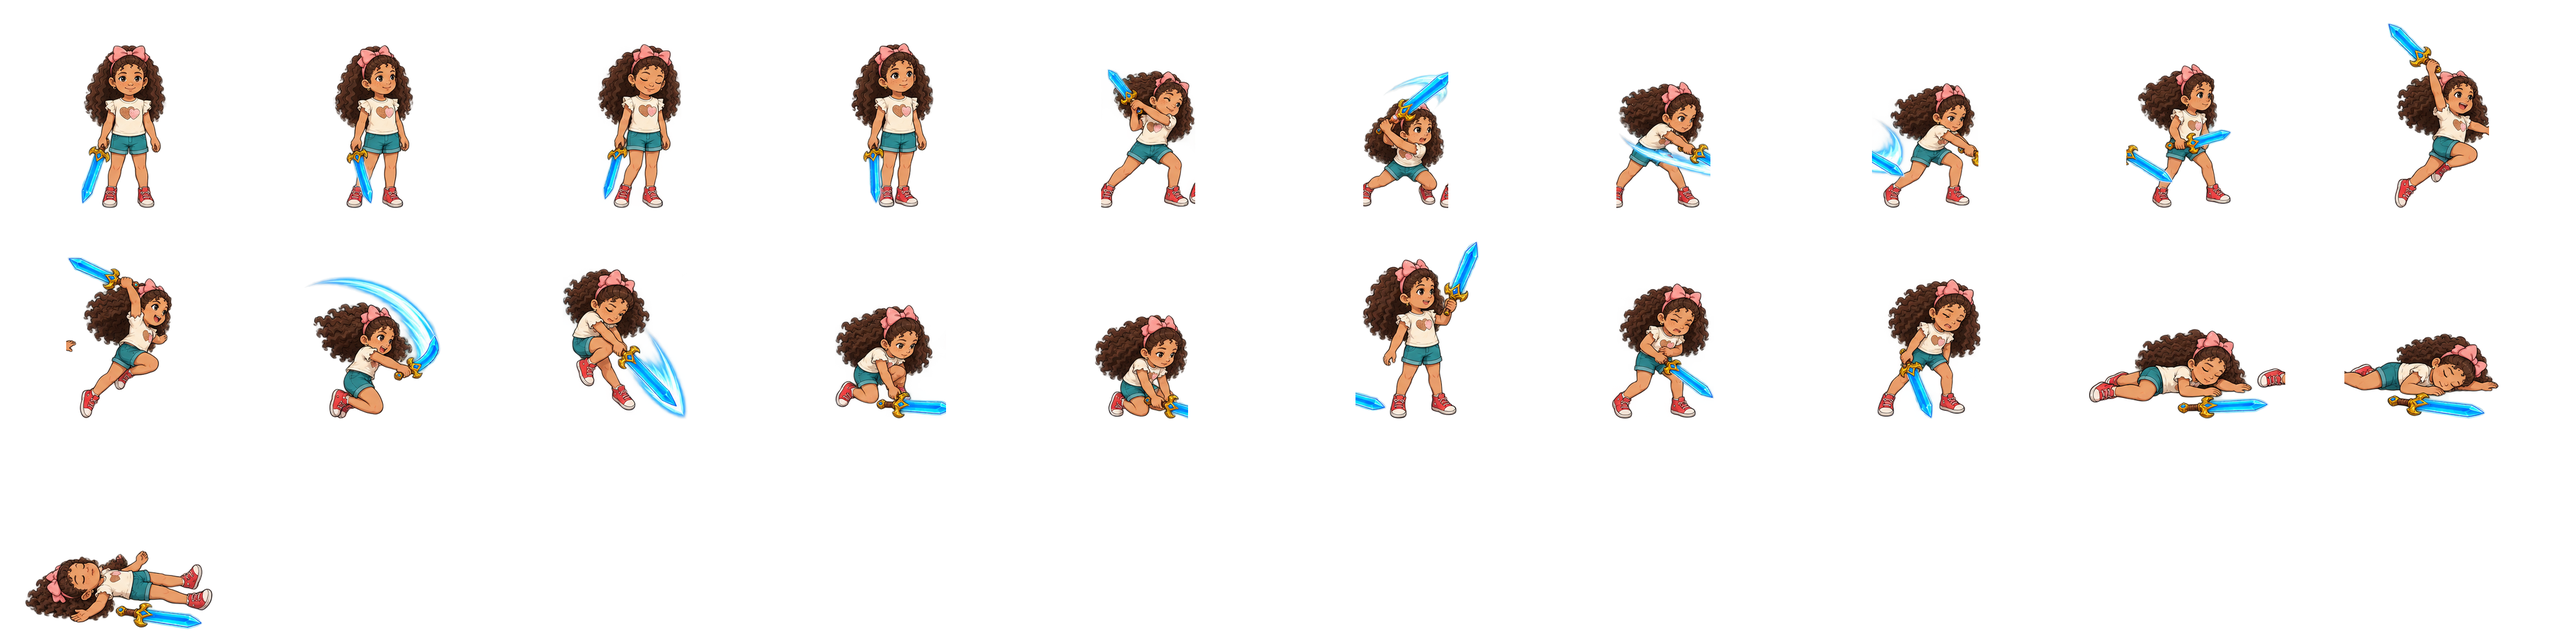
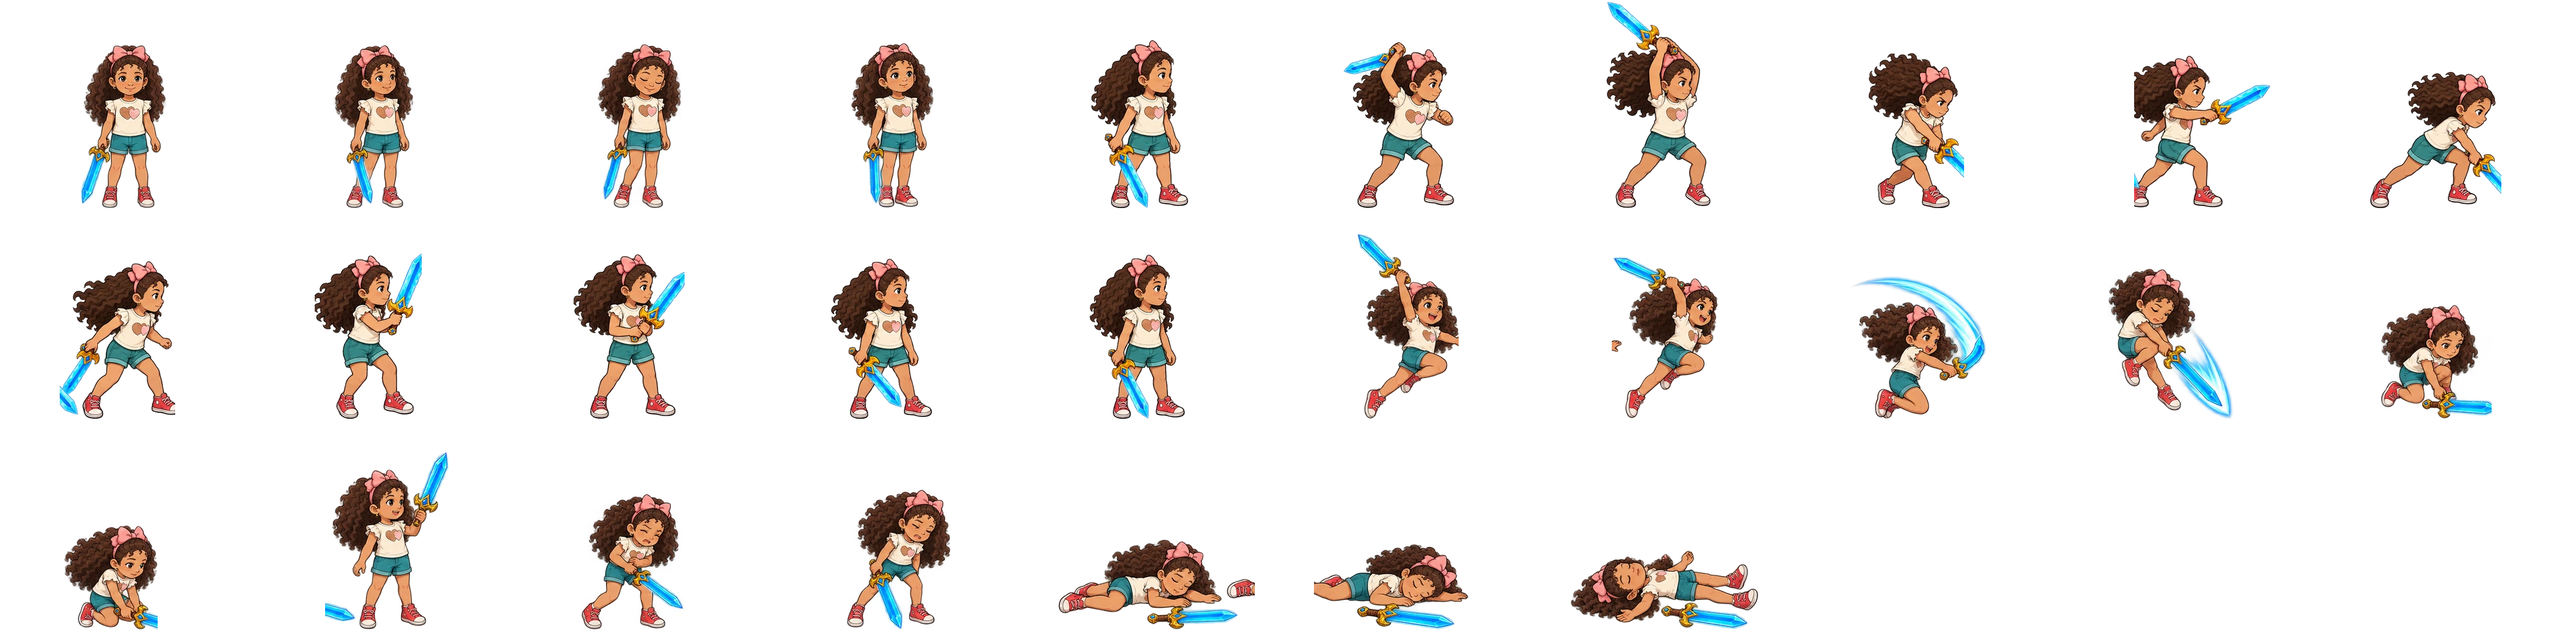
Sword slash expanded 5 -> 11 frames (full wind-up/arc/follow-through/recovery; canvas-cut thrust pose dropped, wide-crop extraction for the arc-end pose); slash fps 34 keeps attack timing; validator PASS

diff --git a/src/assets/sprites.gen.ts b/src/assets/sprites.gen.ts
@@ -970,35 +970,35 @@ export const SPRITES = {
       },
       "slash": {
         "start": 4,
-        "end": 8,
-        "fps": 18,
+        "end": 14,
+        "fps": 34,
         "repeat": 0,
         "h": 198
       },
       "jump_attack": {
-        "start": 9,
-        "end": 12,
+        "start": 15,
+        "end": 18,
         "fps": 14,
         "repeat": 0,
         "h": 212
       },
       "pickup": {
-        "start": 13,
-        "end": 15,
+        "start": 19,
+        "end": 21,
         "fps": 4,
         "repeat": 0,
         "h": 262
       },
       "hurt": {
-        "start": 16,
-        "end": 17,
+        "start": 22,
+        "end": 23,
         "fps": 8,
         "repeat": 0,
         "h": 219
       },
       "defeat": {
-        "start": 18,
-        "end": 20,
+        "start": 24,
+        "end": 26,
         "fps": 5,
         "repeat": 0,
         "h": 180
